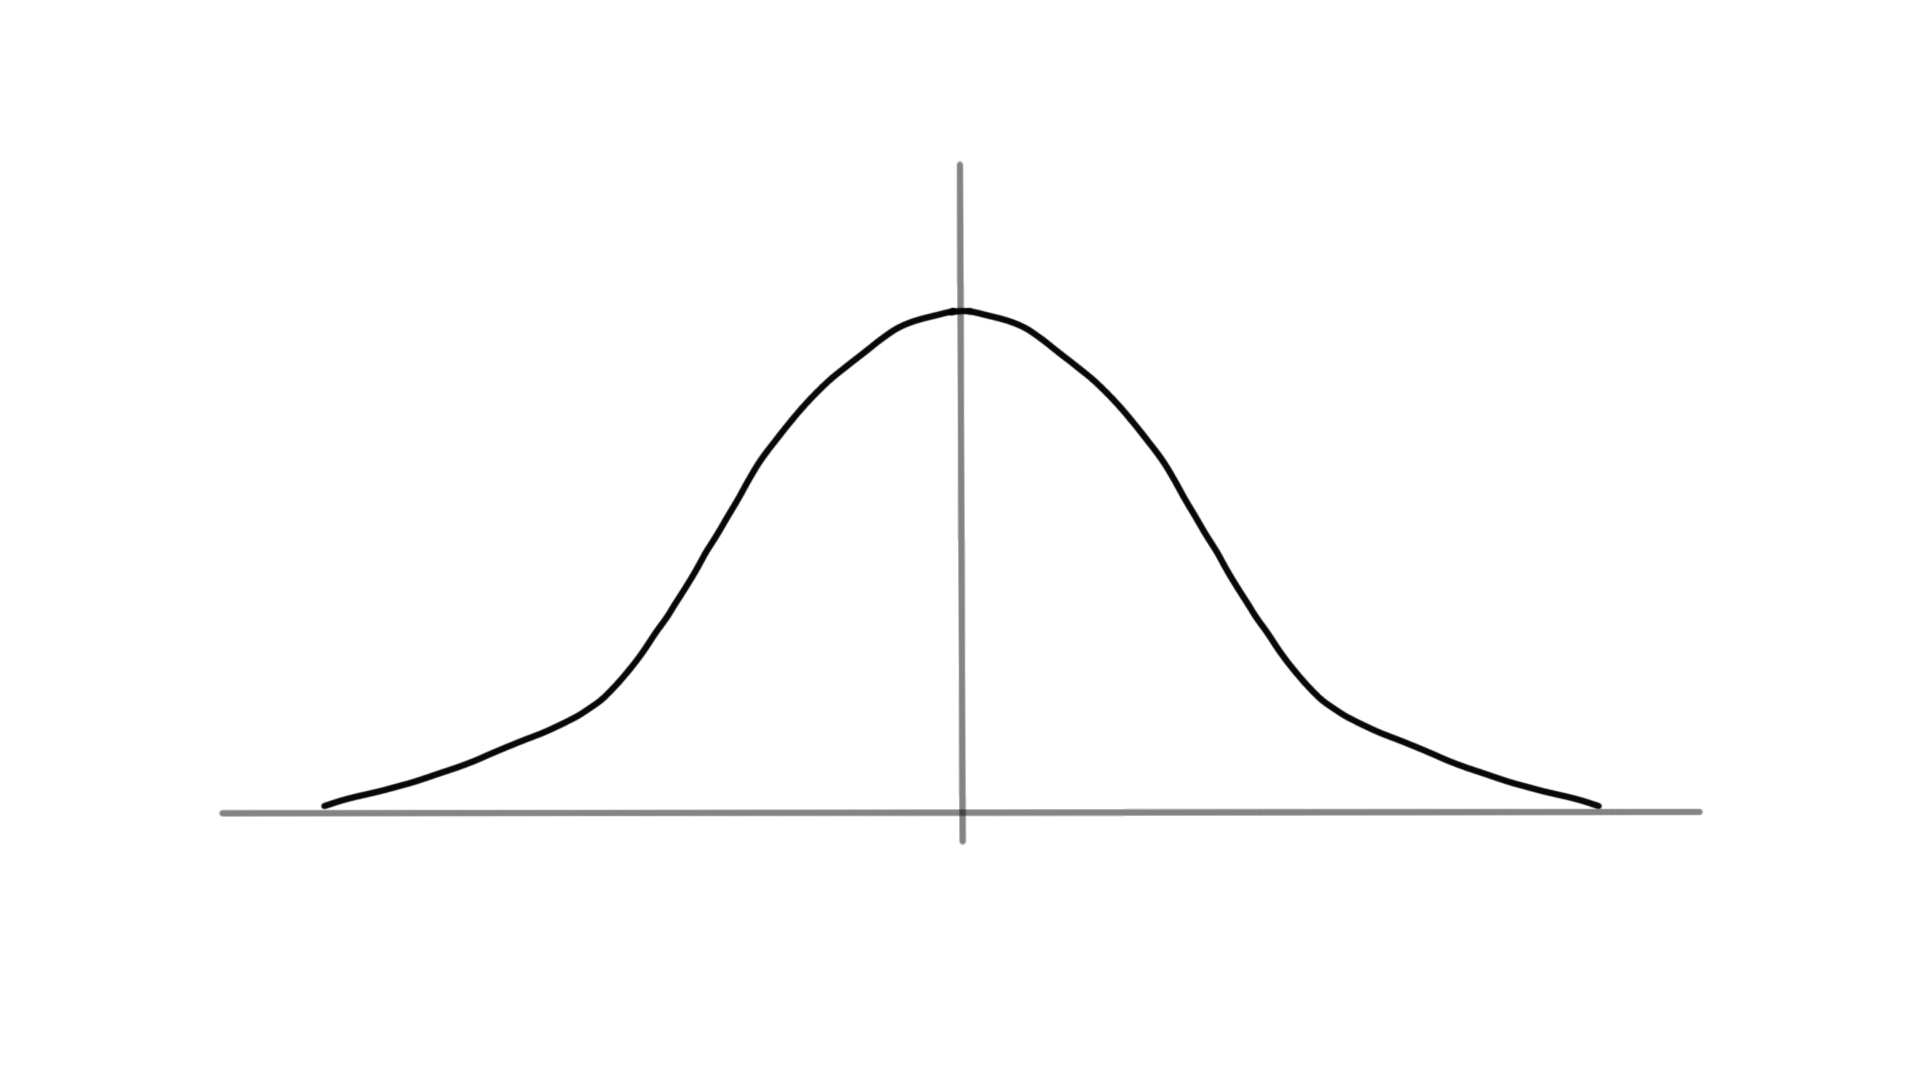
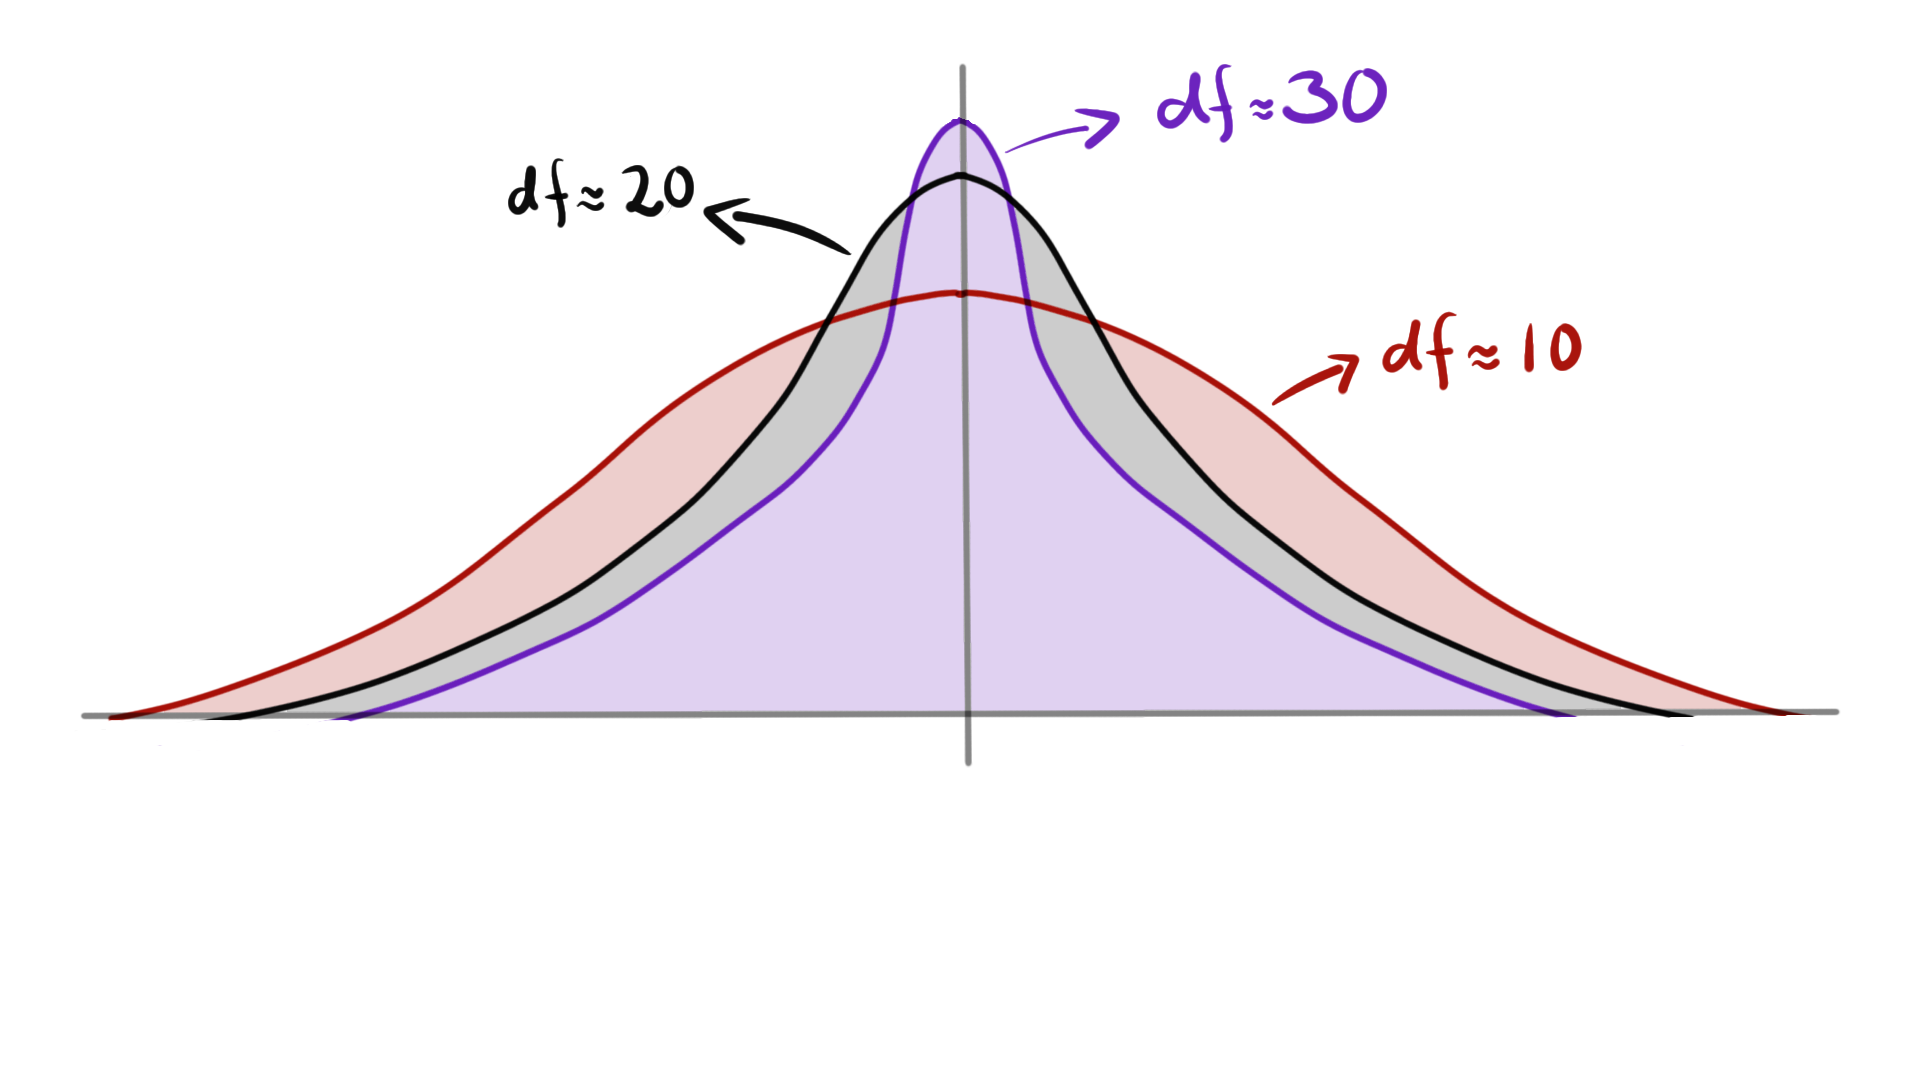
finished

Changed region(s): [[0.0312, 0.0611, 0.9688, 0.7639]]

diff --git a/docs/stat-tests-ttest.html b/docs/stat-tests-ttest.html
@@ -329,6 +329,7 @@ code span.wa { color: #60a0b0; font-weight: bold; font-style: italic; } /* Warni
   <li><a href="#welch-t-test" id="toc-welch-t-test" class="nav-link" data-scroll-target="#welch-t-test"> <span class="header-section-number">16.4</span> Welch t-Test</a></li>
   <li><a href="#verbundener-t-test-paired-t-test" id="toc-verbundener-t-test-paired-t-test" class="nav-link" data-scroll-target="#verbundener-t-test-paired-t-test"> <span class="header-section-number">16.5</span> Verbundener t-Test (Paired t-Test)</a></li>
   <li><a href="#rest-formeln" id="toc-rest-formeln" class="nav-link" data-scroll-target="#rest-formeln"> <span class="header-section-number">16.6</span> Rest Formeln</a></li>
+  <li><a href="#freiheitsgrade-im-t-test" id="toc-freiheitsgrade-im-t-test" class="nav-link" data-scroll-target="#freiheitsgrade-im-t-test"> <span class="header-section-number">16.7</span> Freiheitsgrade im t-Test</a></li>
   </ul></nav>
     </div>
 <!-- main -->
@@ -654,6 +655,13 @@ T_{calc} &amp;= \cfrac{7.24 - 9.71}{6.45 \cdot \sqrt{\frac{2}{7.5}}} \\
 H_0: \bar{y}_{dog} &amp;= \bar{y}_{cat} \\  
 H_A: \bar{y}_{dog} &amp;\neq \bar{y}_{cat} \\   
 \end{align*}\]</span>
+</section><section id="freiheitsgrade-im-t-test" class="level2" data-number="16.7"><h2 data-number="16.7" class="anchored" data-anchor-id="freiheitsgrade-im-t-test">
+<span class="header-section-number">16.7</span> Freiheitsgrade im t-Test</h2>
+<div id="fig-ttest-06" class="quarto-figure quarto-figure-center anchored">
+<figure class="figure"><p><img src="images/t-verteilung_06.png" class="img-fluid figure-img"></p>
+<p></p><figcaption aria-hidden="true" class="figure-caption">Abbildung 16.3— kjk</figcaption><p></p>
+</figure>
+</div>
 
 
 </section></main><!-- /main --><script id="quarto-html-after-body" type="application/javascript">
